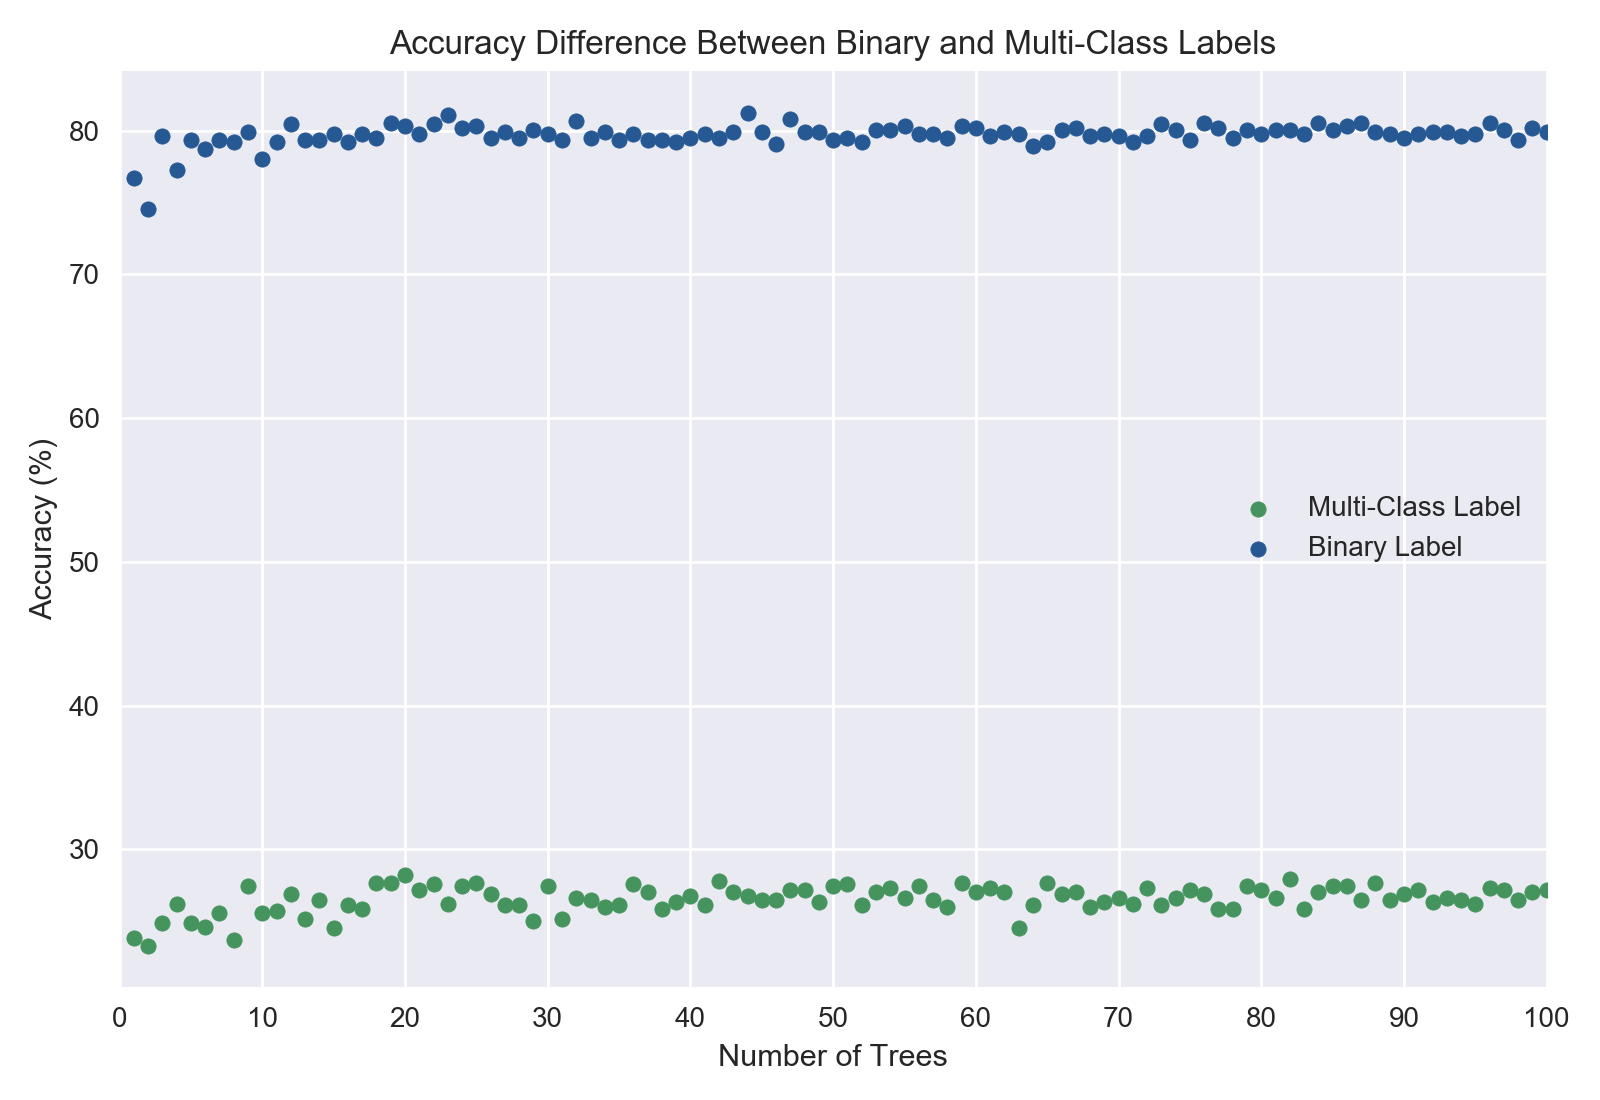
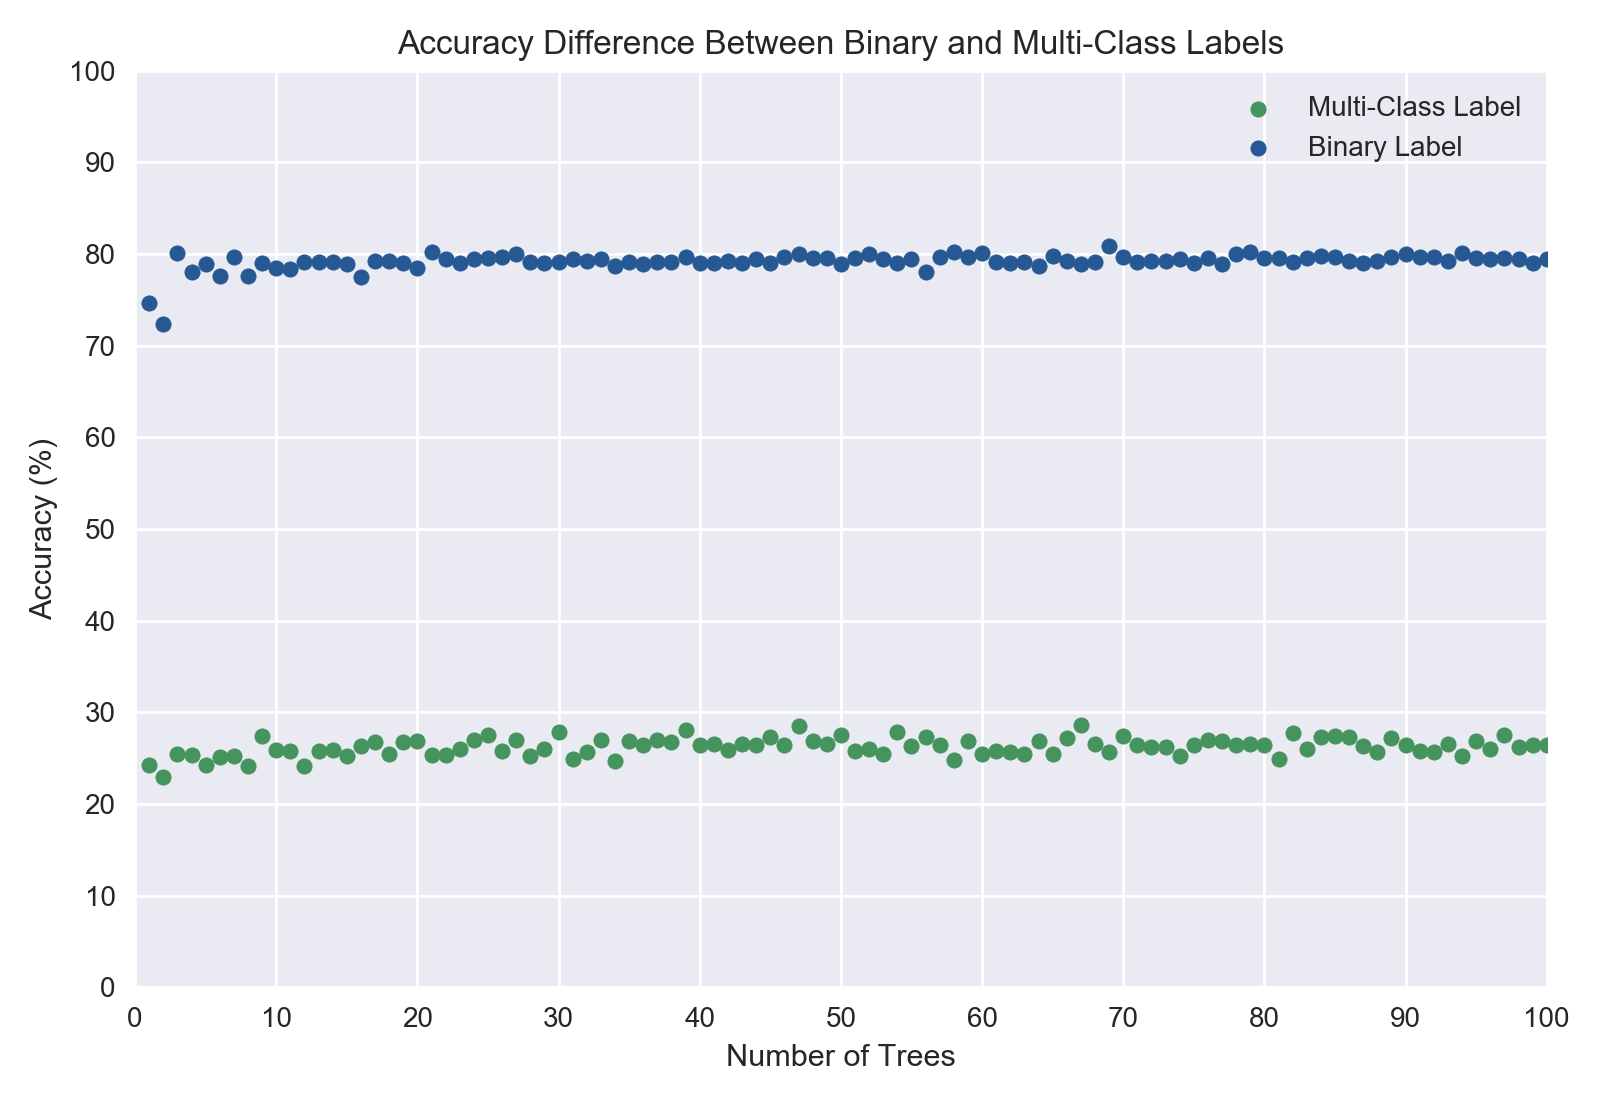
ran model on non null dataset

diff --git a/Random Forest/yelpRandomForest.py b/Random Forest/yelpRandomForest.py
@@ -1,5 +1,6 @@
 from sklearn.ensemble import RandomForestClassifier
 import numpy as np
+import pandas as pd
 import matplotlib.pyplot as plt
 
 # load the dataset
@@ -34,7 +35,7 @@ for i in range(100):
 									criterion = 'entropy', 
 									max_features = 'sqrt')
 	
-	modelEasy = RandomForestClassifier(n_estimators = i + 1, 
+	modelEasy= RandomForestClassifier(n_estimators = i + 1, 
 									bootstrap = True, 
 									criterion = 'entropy', 
 									max_features = 'sqrt')
@@ -51,10 +52,11 @@ MultiClass = plt.scatter(numberTrees, accuracy, c = (0.27, 0.58, 0.37), s  = 30)
 BinaryClass = plt.scatter(numberTrees, accuracyEasy, c = (.15, 0.35, 0.58), s = 30)
 plt.xlabel('Number of Trees')
 plt.ylabel('Accuracy (%)')
-#plt.ylim((0, 50))
-#plt.yticks(np.arange(0, 51, 5))
+plt.ylim((0, 100))
+plt.yticks(np.arange(0, 101, 10))
 plt.xlim(0, 100)
 plt.xticks(np.arange(0, 101, 10))
+#plt.title('Relationship Between Number of Trees and Accuracy')
 plt.title('Accuracy Difference Between Binary and Multi-Class Labels')
 plt.legend((MultiClass, BinaryClass),
            ('Multi-Class Label', 'Binary Label'))
@@ -92,8 +94,8 @@ plt.xlim(0, 100)
 plt.xticks(np.arange(0, 101, 10))
 plt.tight_layout()
 plt.show()
-"""
-"""
+
+
 # Max Depth vs Accuracy
 
 accuracyDepth = np.zeros(90)
@@ -123,17 +125,7 @@ plt.show()
 #NRMSE = RMSE/StandardDev
 #NRMSEeasy = RMSEeasy/easierStandardDev
 #print(accuracy)
-numberTrees = np.arange(1, 101, 1)
-plt.subplot(1,3,1)
-plt.scatter(numberTrees, accuracy, c = 'b')
-plt.scatter(numberTrees, accuracyeasy, c = 'r')
-plt.subplot(1,3,2)
-plt.scatter(numberTrees, RMSE, c = 'b')
-plt.scatter(numberTrees, RMSEeasy, c = 'r')
-plt.subplot(1,3,3)
-plt.scatter(numberTrees, NRMSE, c = 'b')
-plt.scatter(numberTrees, NRMSEeasy, c = 'r')
-plt.show()
+
 
 # Run with optimized values
 modelOpt = RandomForestClassifier(n_estimators = 30,
@@ -145,5 +137,4 @@ modelOpt.fit(trainingData, trainingLabels)
 accuracyOpt = modelOpt.score(testingData, testingLabels) * 100
 print(accuracyOpt)
 """
-
 

diff --git a/README.md b/README.md
@@ -116,7 +116,7 @@ We decided to explore three parameters and their effect on the accuracy of the R
 
 <img src="png_images/treeVsAccuracy.png" width = "800" />
 
-From the plot above, we found that there is a rise in accuracy from around 21% to around 27% when raising the number of trees in the forest from 1 to 20. After that point, the accuracy oscillates by approximately a 1% around 26%, indicating that additional trees do not impact the accuracy of the Random Forest. 
+From the plot above, we found that there is a rise in accuracy from around 22% to around 27% when raising the number of trees in the forest from 1 to 20. After that point, the accuracy oscillates by approximately a 1% around 26%, indicating that additional trees do not impact the accuracy of the Random Forest. 
 
 ### Split Criterion
 
@@ -140,7 +140,7 @@ A Random Forest Classifier was run with the following parameters:
 | Criterion | Entropy | 
 | Max Depth | 10 |
 
-The resulting accuracy was 28.9%. We think this poor accuracy is likely a result of the way the accuracy is being calculated. With 10 different labels, a high accuracy indicates the model can differentaiate between all the labels well. We think that constructing a model that can predict the star rating of a restaurant to that degree of accuracy isn't plausible with the current data.
+The resulting accuracy was 29.63%. We think this poor accuracy is likely a result of the way the accuracy is being calculated. With 10 different labels, a high accuracy indicates the model can differentaiate between all the labels well. We think that constructing a model that can predict the star rating of a restaurant to that degree of accuracy isn't plausible with the current data.
 
 In order to test this theory, we adjusted the labels for the dataset to become binary labels. We assigned a label of *Bad Restaurant* to a star rating of 2.5 or less, *Good Restaurant* to a star rating of greater than 2.5. We then ran the Random Forest Classifier model over a range of a number of trees using the optimized parameters. The results of the binary model compared to the multi-classification model are shown below. 
 
